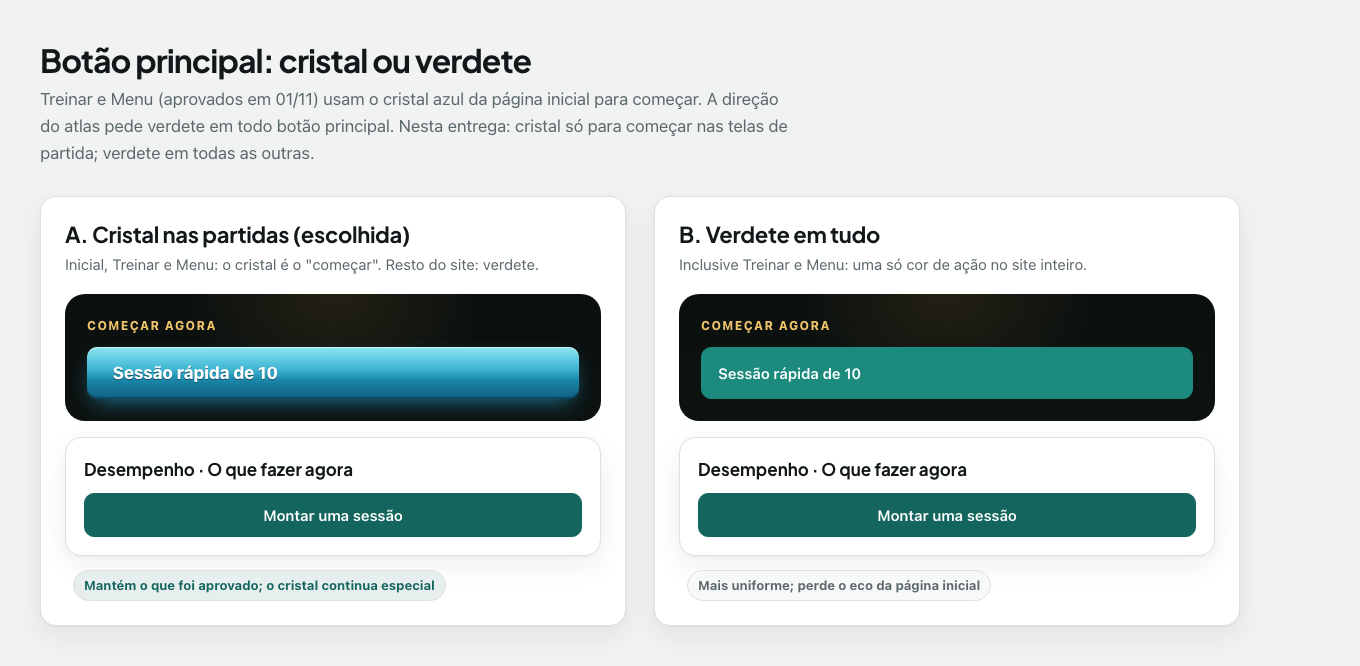
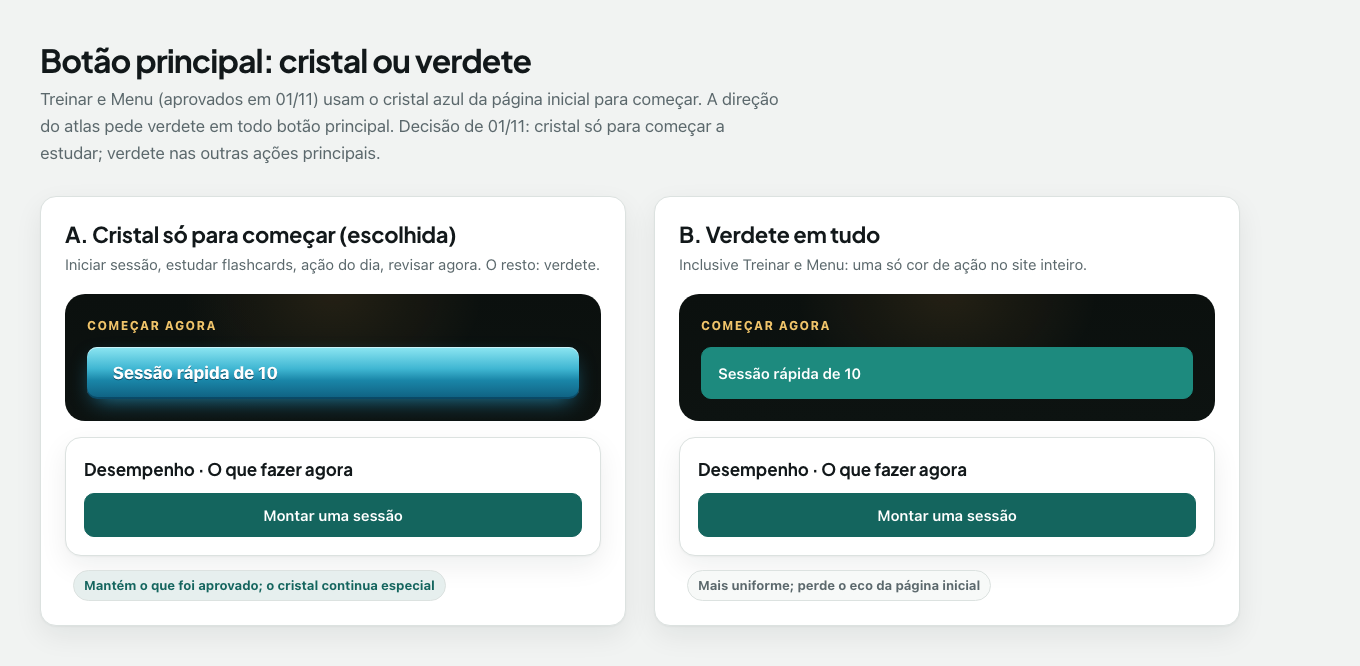
Cristal só para começar a estudar: Estudar flashcards e Continuar estudando; guia e prancha do botão

Changed region(s): [[0.0618, 0.3303, 0.4324, 0.4204], [0.3088, 0.1802, 0.5868, 0.2102], [0.0309, 0.2102, 0.2779, 0.2402]]

diff --git a/src/paginas/Conta.tsx b/src/paginas/Conta.tsx
@@ -41,6 +41,7 @@ import { OpcaoServicoRanking } from '../componentes/ServicoRanking'
 import { AvisoFlutuante, InterruptorLocal, InterruptorSalvo, type AvisoConta, type TipoAviso } from '../componentes/conta/PecasConta'
 import '../estilos/paginas/Conta.css'
 import '../estilos/paginas/Acesso.css'
+import '../estilos/componentes/Cristal.css'
 import { fraseGratis, recurso } from '../config'
 import { guardarVitrine, lembrarNome, nomeLembrado, sortearVitrine } from '../conta/vitrineAcesso'
 import { Mascote } from '../componentes/mascote/Mascote'
@@ -632,7 +633,7 @@ export function Conta({ consulta }: { consulta?: URLSearchParams }) {
   const proxima = status.estado === 'erro' || status.estado === 'conflito' || status.rejeitados.length > 0 ? { rotulo: 'Ver sincronização', destino: linkSecao('aparelhos') }
     : !termosEmDia ? { rotulo: 'Ler os termos novos', destino: linkSecao('termos') }
     : !etapa ? { rotulo: 'Completar o perfil', destino: linkSecao('perfil') }
-    : { rotulo: 'Continuar estudando', destino: href('/treinar') }
+    : { rotulo: 'Continuar estudando', destino: href('/treinar'), comecar: true }
   /** Selo pequeno ao lado de cada seção na lista (o que pede atenção ou o estado atual). */
   const seloSecao = (id: SecaoConta) => {
     if (id === 'assinatura') return <span className={'ct-nav__selo' + (assinante ? ' ct-nav__selo--ouro' : '')}>{assinante ? 'Assinante' : 'Gratuito'}</span>
@@ -663,7 +664,8 @@ export function Conta({ consulta }: { consulta?: URLSearchParams }) {
       </div>
       {/* A próxima ação (atlas unificado, 01/11/2026): uma só, a mais útil agora, no lugar do botão de sincronizar. */}
       <div className="ct-heroi__acoes">
-        <a className="botao botao--principal" href={proxima.destino}>{proxima.rotulo} <Icone nome="direita" tamanho={16} /></a>
+        {/* Cristal só para começar a estudar; o que pede atenção é verdete (decisão de 01/11/2026). */}
+        <a className={'comecar' in proxima ? 'cristal' : 'botao botao--principal'} href={proxima.destino}>{proxima.rotulo} <Icone nome="direita" tamanho={16} /></a>
         {administrador && <a className="botao" href={href('/admin')}><Icone nome="grafico" tamanho={16} /> Painel do admin</a>}
       </div>
       {/* Status da conta em três linhas: plano, sincronização e perfil, cada uma com o que dá para fazer. As métricas

diff --git a/src/estilos/paginas/CentralFlashcardsArquivo.css b/src/estilos/paginas/CentralFlashcardsArquivo.css
@@ -35,11 +35,11 @@
 .cfh-heroi--arquivo .cfh-heroi__texto > p:not(.cfh-selo) { color: rgba(255, 255, 255, 0.82); }
 .cfh-heroi--arquivo .cfh-heroi__texto > p.cfh-heroi__pessoal { border-left: 0; border-radius: 12px; background: rgba(255, 255, 255, 0.06); box-shadow: inset 0 0 0 1px rgba(255, 255, 255, 0.1); color: #fff; }
 .cfh-heroi--arquivo .cfh-heroi__pessoal strong { color: var(--ca-ouro); }
-.cfh-heroi--arquivo .botao.cfh-heroi__estudar { border-radius: var(--ca-raio-ctl); background: linear-gradient(180deg, #ffe2a0, #f0c46a 55%, #d9a446); color: #1b1208;
-  box-shadow: inset 0 1px 0 rgba(255, 255, 255, 0.6), 0 0 0 1px rgba(27, 18, 8, 0.35), 0 10px 26px -10px rgba(255, 196, 106, 0.8); }
-.cfh-heroi--arquivo .botao.cfh-heroi__estudar:hover { transform: translateY(-1px); filter: brightness(1.05); }
-.cfh-heroi--arquivo .botao.cfh-heroi__estudar:active { transform: translateY(1px); }
-.cfh-heroi--arquivo .cfh-heroi__estudar svg { border-radius: 9px; background: #1b1208; color: var(--ca-ouro); }
+/* "Estudar flashcards" é o cristal da página inicial (componentes/Cristal.css): a ação de começar a estudar
+   (decisão de 01/11/2026: cristal só para começar; o resto da ação é verdete). Aqui só o formato com ícone e legenda. */
+.cfh-heroi--arquivo .cristal.cfh-heroi__estudar { justify-content: flex-start; gap: var(--e-3); margin-top: var(--e-5); min-height: 64px; padding: var(--e-2) var(--e-5) var(--e-2) var(--e-2); text-align: left; }
+.cfh-heroi--arquivo .cfh-heroi__estudar svg { flex: none; box-sizing: content-box; padding: 0.45rem; width: 1.3rem; height: 1.3rem; border-radius: 8px; background: rgba(0, 40, 60, 0.38); color: #fff; }
+.cfh-heroi--arquivo .cfh-heroi__estudar small { font-weight: 650; opacity: 0.9; text-shadow: none; }
 .cfh-heroi--arquivo .cfh-vidro { border-radius: var(--ca-raio-ctl); border-color: var(--ca-borda); background: rgba(10, 12, 20, 0.45); color: #fff; }
 .cfh-heroi--arquivo .tr-heroi__link { color: #ffd98e; }
 @media (min-width: 36rem) and (max-width: 63.99rem) { .cfh-heroi--arquivo .cfh-janela { height: auto; aspect-ratio: 12 / 5; } }

diff --git a/docs/design/ideias/2026-11-01-atlas-unificado/botao-principal.html b/docs/design/ideias/2026-11-01-atlas-unificado/botao-principal.html
@@ -19,9 +19,9 @@ p.l{margin:0 0 28px;color:var(--texto-2);max-width:70ch}
 .esc{background:var(--verdete-veu);color:var(--verdete)}
 </style>
 <h1>Botão principal: cristal ou verdete</h1>
-<p class="l">Treinar e Menu (aprovados em 01/11) usam o cristal azul da página inicial para começar. A direção do atlas pede verdete em todo botão principal. Nesta entrega: cristal só para começar nas telas de partida; verdete em todas as outras.</p>
+<p class="l">Treinar e Menu (aprovados em 01/11) usam o cristal azul da página inicial para começar. A direção do atlas pede verdete em todo botão principal. Decisão de 01/11: cristal só para começar a estudar; verdete nas outras ações principais.</p>
 <div class="g">
- <section class="op folha"><h2>A. Cristal nas partidas (escolhida)</h2><p class="t">Inicial, Treinar e Menu: o cristal é o "começar". Resto do site: verdete.</p>
+ <section class="op folha"><h2>A. Cristal só para começar (escolhida)</h2><p class="t">Iniciar sessão, estudar flashcards, ação do dia, revisar agora. O resto: verdete.</p>
   <div class="mundo"><small>COMEÇAR AGORA</small><button class="cristal">Sessão rápida de 10</button></div>
   <div class="papel folha"><b>Desempenho · O que fazer agora</b><a class="botao botao--principal" href="#">Montar uma sessão</a></div>
   <span class="selo esc">Mantém o que foi aprovado; o cristal continua especial</span></section>

diff --git a/src/estilos/paginas/Conta.css b/src/estilos/paginas/Conta.css
@@ -73,6 +73,7 @@
 .ct-heroi__acoes { grid-column: 2; grid-row: 1; display: flex; flex-wrap: wrap; gap: 0.5rem; justify-content: flex-end; align-self: center; }
 .ct-heroi__acoes .botao { border-radius: var(--raio-controle); }
 .ct-heroi__acoes .botao--principal { min-height: 48px; padding: 0 1.25rem; font-size: var(--corpo); }
+.ct-heroi__acoes .cristal { min-height: 48px; padding: 0 1.4rem; }
 
 /* Situação da conta (atlas unificado, 01/11/2026): plano, sincronização e perfil numa lista plana com linhas, cada
    linha com o rótulo, o estado e a ação dela. Ouro só no plano de quem assina. */
@@ -105,7 +106,7 @@
 @media (max-width: 46rem) {
   .ct-heroi { grid-template-columns: minmax(0, 1fr); gap: 1rem; }
   .ct-heroi__acoes { grid-column: 1; grid-row: auto; justify-content: stretch; }
-  .ct-heroi__acoes .botao { flex: 1 1 auto; }
+  .ct-heroi__acoes .botao, .ct-heroi__acoes .cristal { flex: 1 1 auto; }
   .ct-cracha .cracha { --u: 2.5px; }
   .ct-heroi__perfil { gap: 0.85rem; }
   .ct-status-lista > li { grid-template-columns: 2.25rem minmax(0, 1fr); row-gap: var(--e-2); }

diff --git a/src/paginas/CentralFlashcards.tsx b/src/paginas/CentralFlashcards.tsx
@@ -21,6 +21,7 @@ import { CHAVE_RECORDES, RECORDES_VAZIOS, type Recordes } from '../flashcards/pr
 import type { Flashcard } from '../flashcards/tipos'
 import '../estilos/paginas/CentralFlashcards.css'
 import '../estilos/paginas/CentralFlashcardsArquivo.css'
+import '../estilos/componentes/Cristal.css'
 
 export const AVISO_BETA = 'O Torneio de Flashcards está em beta. Estamos aprimorando o visual, o áudio e as mecânicas. Teste e conte o que funcionou — ou o que precisa melhorar.'
 
@@ -129,7 +130,7 @@ export function CentralFlashcards() {
           <p className="cfh-selo">Flashcards</p>
           <h1 id="cfh-titulo">Treine flashcards de Ortopedia.</h1>
           <p className="cfh-heroi__pessoal"><strong>{pessoal.abertura}</strong> {pessoal.dados}</p>
-          <a className="botao cfh-heroi__estudar" href={href(acao.destino)}>
+          <a className="cristal cfh-heroi__estudar" href={href(acao.destino)}>
             <Icone nome={acao.icone} tamanho={20} />
             <span><strong>{acao.rotulo}</strong><small>{acao.detalhe}</small></span>
           </a>

diff --git a/docs/design/ATLAS-UNIFICADO.md b/docs/design/ATLAS-UNIFICADO.md
@@ -39,7 +39,7 @@ conquistas.
   aro de latão das lentes e a "mesa da lamparina" de "O que fazer agora" passaram para o papel. O acerto geral é a
   única métrica em ouro. "Montar uma sessão" é o único botão cheio; os passos têm ação secundária clara.
 - **Flashcards:** a cena do Arquivo fica menor no celular (a frase do chão sai; o "Como funciona" diz o mesmo) e
-  "Estudar flashcards" sobe para a primeira tela; folhas com raio 16 e a sombra comum; passos com `.numero-passo`.
+  "Estudar flashcards" sobe para a primeira tela e vira o cristal (era dourado); folhas com raio 16 e a sombra comum; passos com `.numero-passo`.
 - **Ranking:** abaixo do Salão dos Cem, a classificação virou lista plana com linhas (sem cartão por pessoa), sua linha
   com véu e filete verdete, posições em grafite (o metal fica no pódio), marcos "Top 10/Top 50" em régua cinza; abas e
   período no seletor comum (o período tinha `color: #fff` sobre verdete, ilegível no escuro).
@@ -49,11 +49,18 @@ conquistas.
 ## Botão principal: cristal ou verdete
 
 A direção pedia botão principal verdete em todo o site; a versão aprovada em 01/11 (#779/#780, "Pode subir") usa o
-**cristal azul** da página inicial para *começar* em Treinar e no Menu. Decisão desta entrega (Tales deu autonomia em
-01/11/2026): **o cristal fica só para "começar a jogar/estudar" nas três telas de partida (Inicial, Treinar, Menu)**;
-em todas as outras páginas, a ação é verdete. Assim o cristal continua sendo um momento especial, ligado à página
-inicial, e o resto do atlas tem uma só cor de ação. Prancha com as duas opções:
-`docs/design/ideias/2026-11-01-atlas-unificado/botao-principal.png`.
+**cristal azul** da página inicial para começar em Treinar e no Menu. Decisão de 01/11/2026 (Tales deu autonomia às
+sessões; regra valendo para todas):
+
+- **Cristal (`.cristal`)** só para a ação de **começar a estudar**: iniciar sessão, estudar flashcards, a ação do dia do
+  cronograma e revisar agora. Nesta entrega: "Estudar flashcards" (antes dourado) e o "Continuar estudando" de Minha
+  conta.
+- **Verdete cheio** nas demais ações principais: entrar no login, salvar, confirmar, assinar, montar uma sessão, ver
+  sincronização, completar o perfil.
+- **Secundários** com o contorno verdete (como o `.jn-botao` da inicial).
+- Menu e Treinar ficam como estão.
+
+Prancha comparando as duas opções: `docs/design/ideias/2026-11-01-atlas-unificado/botao-principal.png`.
 
 ## Como conferir
 
